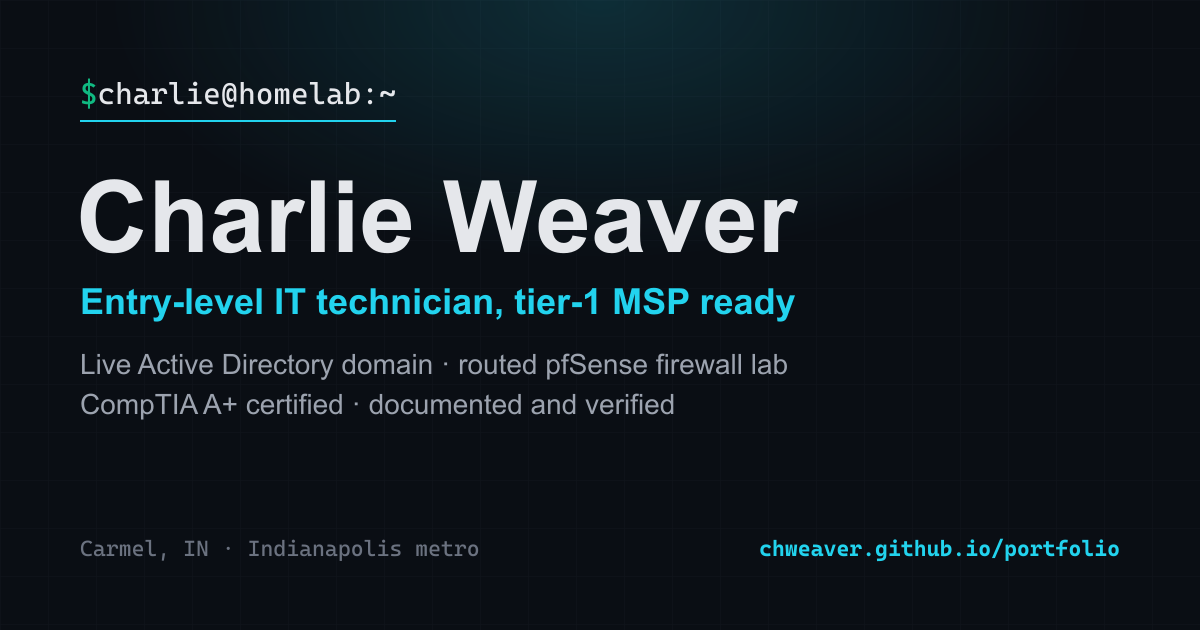
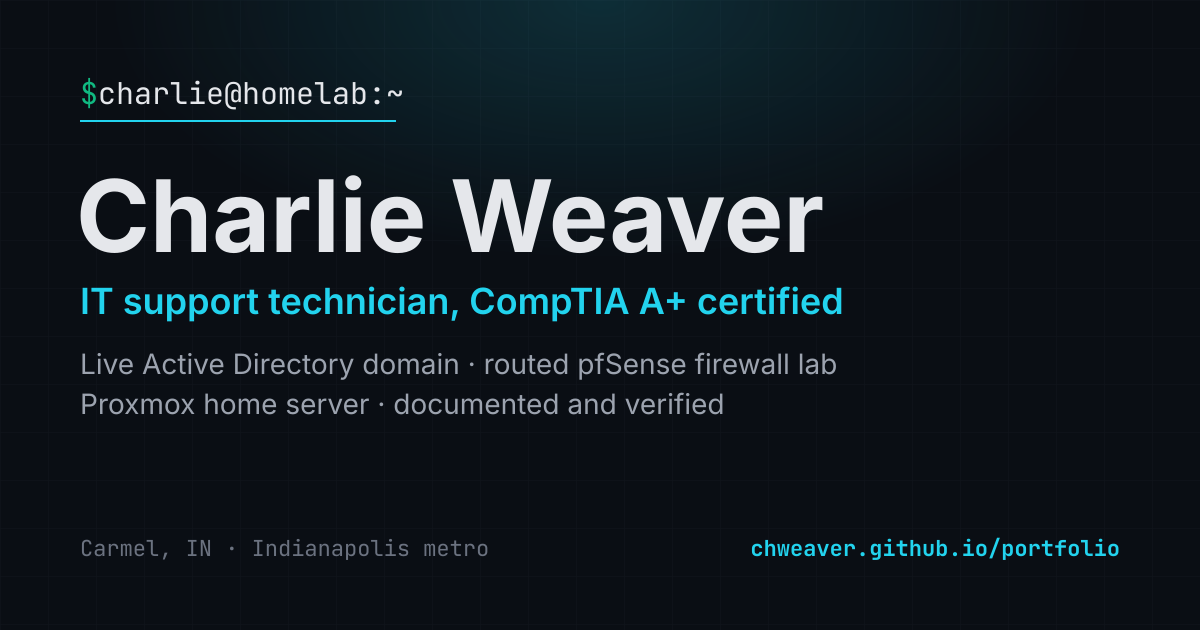
Content refresh: IT support technician pitch, Network+ roadmap, Proxmox server project
- Headline and metadata: IT support technician (was help desk and tier-1 MSP support)
- Cert roadmap: Network+ (N10-009) in progress replaces Security+; CCNA next
- Projects: AD lab through login scripts and drive maps, Linux Lab 1 complete and
  validated, new Proxmox home server card, AI workspace noted as also running there
- New "Outside the lab" strip: PC builds and family and friends support
- Skills: fourth overview card (servers and hardware); table header "On the job"
- Resume PDF regenerated: Team Member title, Whole Foods removed, Network+ line,
  Proxmox and informal support added, still one page
- OG card copy, footer, contact roles, AD snapshot fallback 6/7
- README and AGENTS.md kept in sync

diff --git a/src/data/portfolio.ts b/src/data/portfolio.ts
@@ -5,7 +5,7 @@ export const adLab = {
 } as const;
 
 // A short troubleshooting reflection shown in the AD lab section: what the
-// build-out actually taught, kept plain and specific.
+// build-out taught, kept plain and specific.
 export const adLabReflection =
   'Most of what stuck came from things breaking. A domain join that fails is usually DNS. Group Policy problems rarely announce themselves, so you live in the event logs. The worst was folder redirection silently refusing to work: I ruled out permissions, ownership, GPO scope, and networking one at a time before tracing it to a "grant exclusive rights" setting fighting my share\'s permissions.';
 
@@ -68,41 +68,41 @@ export const profile = {
   email: 'charliewgz6@gmail.com',
   linkedin: 'https://www.linkedin.com/in/charlie-weaver-it/',
   github: 'https://github.com/chweaver',
-  tagline: 'Entry-level IT technician for tier-1 MSP, help desk, and NOC roles in the Indianapolis metro, with hands-on Active Directory, pfSense, and Linux lab experience.',
+  tagline: 'Entry-level IT support technician in the Indianapolis metro, CompTIA A+ certified, with hands-on Active Directory, pfSense, Linux, and Proxmox experience from a documented home lab.',
   // Full headline kept as the canonical string (SEO/meta). The hero renders it in
   // two tiers for scannability: headlineLead large, headlineRest smaller.
-  headline: 'Help desk and tier-1 MSP support, backed by a live homelab: Active Directory, pfSense, and Linux, documented and verified.',
-  headlineLead: 'Help desk and tier-1 MSP support.',
-  headlineRest: 'Backed by a live homelab: Active Directory, pfSense, and Linux, documented and verified.',
+  headline: 'IT support technician, backed by a live homelab: Active Directory, pfSense, Linux, and a Proxmox server, documented and verified.',
+  headlineLead: 'IT support technician.',
+  headlineRest: 'Backed by a live homelab: Active Directory, pfSense, Linux, and a Proxmox server, documented and verified.',
   // Short trajectory line in the hero: makes the network-engineering goal explicit
-  // without repeating the MSP/help-desk framing already in the headline.
-  aim: 'My goal is network engineering. The routed, firewalled lab is the foundation; Security+ is in progress, then CCNA.',
+  // without repeating the support framing already in the headline.
+  aim: 'My goal is network engineering. The routed, firewalled lab is the foundation; Network+ is in progress, then CCNA.',
 } as const;
 
 // The hero renders only `honesty`; the built/planned arrays were removed with
 // the old hero cards.
 export const summary = {
   honesty:
-    'No professional MSP tenure yet. Built items are complete and verified; planned items are labeled separately.',
+    'Looking for my first IT role. Everything here is self-built: built items are complete and verified, and planned items are labeled separately.',
 };
 
 // At-a-glance hero strip: the 5-second recruiter scan. Values trace to real data
 // (profile.location, the certs list, the lab stack, current availability).
 export const heroGlance = [
   { k: 'Location', v: 'Carmel, IN · Indianapolis metro' },
-  { k: 'Certs', v: 'CompTIA A+ certified · June 2026' },
-  { k: 'Stack', v: 'AD · pfSense · Linux' },
+  { k: 'Certs', v: 'CompTIA A+ certified · Network+ in progress' },
+  { k: 'Stack', v: 'AD · pfSense · Linux · Proxmox' },
   { k: 'Status', v: 'Available now' },
 ] as const;
 
 // Compact credential path shown on the right of the hero: a curated, ordered view
 // that makes the network-engineering trajectory explicit. States stay honest and in
-// sync with `certs` below (CompTIA A+ certified, Security+ in progress, then CCNA).
+// sync with `certs` below (CompTIA A+ certified, Network+ in progress, then CCNA).
 export const heroCertRoadmap = {
   caption: 'The path toward network engineering',
   steps: [
     { name: 'CompTIA A+', code: '', state: 'done', note: 'Certified June 2026' },
-    { name: 'CompTIA Security+', code: 'SY0-701', state: 'current', note: 'In progress' },
+    { name: 'CompTIA Network+', code: 'N10-009', state: 'current', note: 'In progress' },
     { name: 'CCNA', code: '200-301', state: 'later', note: 'Routing and switching', flag: 'Network track' },
     { name: 'AZ-104', code: '', state: 'later', note: 'Cloud and M365' },
   ],
@@ -132,22 +132,22 @@ export interface Project {
 export const projects: Project[] = [
   {
     title: 'Active Directory domain',
-    outcome: 'corp.lab live: DC, OUs, AGDLP groups, first GPO',
+    outcome: 'corp.lab live: DC, OUs, AGDLP groups, GPOs, file services, login scripts',
     status: 'in-progress',
     problem: 'Stand up and run the identity layer a small shop depends on, end to end.',
-    built: 'Domain controller on Server 2022, organizational units, users, AGDLP groups, a domain-joined Windows 11 client, and a verified GPO.',
-    result: 'WS01 authenticates against corp.lab and policy applies on login. Shares and redirected home folders are in; login scripts and help-desk drills are tracked live below.',
-    stack: ['Windows Server', 'Active Directory', 'GPO', 'DNS'],
+    built: 'Domain controller on Server 2022, organizational units, users, AGDLP groups, a domain-joined Windows 11 client, Group Policy, file shares with home folders and folder redirection, a GPO login script, and drive maps targeted by security group.',
+    result: 'WS01 authenticates against corp.lab and policy applies on login: redirected folders, the login script, and the IT drive map are all verified on the client. Progress through the rest of the guide is tracked live below.',
+    stack: ['Windows Server', 'Active Directory', 'GPO', 'File shares', 'DNS'],
     repo: adLab.guideBaseUrl,
     linkLabel: 'Open the AD lab guide',
   },
   {
     title: 'Linux lab build',
-    outcome: 'Lab 1 underway: key-only SSH, locked-down sshd, ufw + fail2ban live',
+    outcome: 'Lab 1 complete: key-only SSH, locked-down sshd, ufw + fail2ban, validated',
     status: 'in-progress',
     problem: 'Bridge Linux into the Windows domain the way a real mixed network runs, then operate it: logs, metrics, patches.',
     built: 'On ubuntu-base: key-based login proven before password auth went off, sshd locked down through a 99-hardening.conf drop-in, ufw deny-by-default, and fail2ban watching the auth log.',
-    result: 'Lab 1 (SSH hardening) is in progress, tracked live below. Queued after it: Samba on the domain, BIND9, rsync backups, then rsyslog, Prometheus + Grafana on Docker, and automated patching on ops01.',
+    result: 'Lab 1 (SSH hardening) is complete and validated: key login works, password and root logins are refused, and fail2ban bans repeated failures. Queued after it: Samba on the domain, BIND9, rsync backups, then rsyslog, Prometheus + Grafana on Docker, and automated patching on ops01.',
     stack: ['Linux', 'OpenSSH', 'Samba', 'BIND9', 'rsync', 'rsyslog', 'Prometheus', 'Docker'],
     repo: linuxLab.guideBaseUrl,
     linkLabel: 'Open the Linux lab guide',
@@ -163,17 +163,43 @@ export const projects: Project[] = [
     repo: '',
   },
   {
+    title: 'Proxmox home server',
+    outcome: 'One Proxmox host running local AI, Home Assistant, DNS, and a game server',
+    status: 'done',
+    problem: 'Run real services on real hardware, not just lab VMs, and keep them running.',
+    built: 'Proxmox VE on a server I assembled from spare parts (Ryzen 9 3950X, 32 GB RAM, RTX 2080). The GPU is passed through to a container that serves local AI models with Ollama, alongside a Whisper speech-to-text container, a Home Assistant VM, a Technitium DNS container, and a Minecraft server VM.',
+    result: 'When the server stopped powering on, I traced the fault to a failed power supply, replaced it, and brought every guest back up. Backups are restore-tested: I restored a container backup to a throwaway ID, confirmed the service came up, then removed the copy.',
+    stack: ['Proxmox VE', 'LXC', 'GPU passthrough', 'Ollama', 'Whisper', 'Home Assistant', 'Technitium DNS', 'Backup and restore'],
+    repo: '',
+    wide: true,
+  },
+  {
     title: 'Self-hosted AI workspace (Odysseus)',
     outcome: 'Private AI workspace running as a multi-container Docker stack on my own GPU',
     status: 'done',
     problem: 'I wanted real reps running containerized services over time, and an AI workspace that keeps my data on my own machine.',
     built: 'Four-service Docker Compose stack (app, ChromaDB, SearXNG, ntfy) with models served by Ollama. When they offloaded to the CPU on a 12 GB card, I capped context windows, turned on flash attention and KV-cache quantization, and moved the model store to its own SSD to keep everything on the GPU. Hardened it: outbound-only firewall, non-root, model API on localhost, app behind per-user login.',
-    result: 'My daily driver, rebuildable on any machine from a script and a git bundle. A Python test battery scores each model, so model choice is measured, not guessed.',
+    result: 'My daily driver, rebuildable on any machine from a script and a git bundle, which is how it also runs on the Proxmox server. A Python test battery scores each model, so model choice is measured, not guessed.',
     stack: ['Docker', 'Docker Compose', 'Linux', 'Ollama', 'Python'],
     repo: '',
     wide: true,
   },
 ];
+
+// Support work for real people, outside the lab: shown as a strip under the
+// projects grid. Every line is something Charlie reported directly; keep the
+// wording at that level (no invented counts, clients, or outcomes).
+export const outsideLab = {
+  eyebrow: 'Outside the lab',
+  title: 'Hands-on support for real people',
+  items: [
+    { k: 'PC builds', v: 'Built or rebuilt 6 to 10 PCs for other people.' },
+    {
+      k: 'Family and friends support',
+      v: 'PC repair and upgrades, Wi-Fi and home network problems, phone and account help, printers and smart home devices.',
+    },
+  ],
+} as const;
 
 export const ipTable = [
   { asset: 'pfSense WAN', nic: 'VMnet8 (NAT)', address: '192.168.19.133 (DHCP)', mask: '/24', role: 'Uplink to host NAT pool' },
@@ -362,7 +388,7 @@ export const certCoverage: { exam: string; band: string; level: CoverageLevel; n
     exam: 'CompTIA A+ (220-1201 + 220-1202)',
     band: 'Light-to-moderate',
     level: 'light-to-moderate',
-    notes: 'Virtualization, PC hardware, and Linux install and config are direct. Mobile, printers, OS imaging, macOS, and most Windows-side OS, remote-access, and backup objectives are not in the lab.',
+    notes: 'Virtualization, PC hardware, and Linux install and config are direct. Mobile, printers, OS imaging, macOS, and most Windows-side OS and remote-access objectives are not in the lab.',
   },
   {
     exam: 'Network+ N10-009',
@@ -384,7 +410,12 @@ export const coverageMethodology =
 export const skillsOverview = [
   {
     column: 'Operating Systems',
-    items: ['Windows', 'Linux (Ubuntu, Debian, Rocky)', 'Basic shell'],
+    items: [
+      'Windows 10 and 11, Windows Server 2022',
+      'Linux (Ubuntu, Debian, Rocky)',
+      'macOS and Chrome OS (user level)',
+      'Basic shell',
+    ],
   },
   {
     column: 'Networking',
@@ -394,7 +425,16 @@ export const skillsOverview = [
     column: 'Identity and Tooling',
     items: [
       'Active Directory: domain controller, OUs, users, AGDLP groups',
+      'Group Policy, file shares, folder redirection, login scripts, drive maps',
       'Microsoft 365, ServiceNow, Jira: familiar, not yet hands-on',
+    ],
+  },
+  {
+    column: 'Servers and Hardware',
+    items: [
+      'Proxmox VE: VMs, containers, GPU passthrough, restore-tested backups',
+      'VMware Workstation Pro, Docker',
+      'PC builds, diagnosis, and part replacement',
     ],
   },
 ];
@@ -408,22 +448,22 @@ export const certs = [
     status: 'passed' as const,
     tier: 'Completed' as const,
     target: 'Certified June 2026',
-    why: 'Hardware, networking, virtualization, operating systems, security, and software troubleshooting. The MSP gatekeeper credential, both cores complete.',
+    why: 'Hardware, networking, virtualization, operating systems, security, and software troubleshooting. The baseline credential for IT support work, both cores complete.',
   },
   {
-    name: 'CompTIA Security+',
-    code: 'SY0-701',
+    name: 'CompTIA Network+',
+    code: 'N10-009',
     status: 'in-progress' as const,
     tier: 'Foundation · next' as const,
-    target: 'Security baseline',
-    why: 'Threats, identity, and risk: the security floor for client work.',
+    target: 'Networking baseline',
+    why: 'Vendor-neutral networking: addressing, routing and switching concepts, wireless, and troubleshooting. The step between A+ and CCNA.',
   },
   {
     name: 'Cisco CCNA',
     code: '200-301 v1.1',
     status: 'queued' as const,
     tier: 'Foundation · next' as const,
-    target: 'Networking foundation',
+    target: 'Routing and switching',
     why: 'Routing, switching, and the fundamentals behind every client network.',
   },
   {

diff --git a/src/components/SkillsMatrix.tsx b/src/components/SkillsMatrix.tsx
@@ -48,7 +48,7 @@ export function SkillsMatrix() {
       title="What I can work with"
       contextCard="Each lab element maps to A+, Network+, and CCNA objectives."
     >
-      <div className="grid gap-4 md:grid-cols-3">
+      <div className="grid gap-4 md:grid-cols-2 lg:grid-cols-4">
         {skillsOverview.map((col) => (
           <div key={col.column} className="card p-5">
             <div className="font-mono text-xs uppercase tracking-widest text-accent mb-3">
@@ -101,7 +101,7 @@ export function SkillsMatrix() {
                     <th className="px-4 py-3 font-normal">A+</th>
                     <th className="px-4 py-3 font-normal">Net+</th>
                     <th className="px-4 py-3 font-normal">CCNA</th>
-                    <th className="px-4 py-3 font-normal min-w-[260px]">MSP application</th>
+                    <th className="px-4 py-3 font-normal min-w-[260px]">On the job</th>
                   </tr>
                 </thead>
                 <tbody>
@@ -177,7 +177,7 @@ export function SkillsMatrix() {
           CompTIA A+: certified June 2026
         </div>
         <p className="text-sm text-ink-dim leading-relaxed">
-          Both cores passed. Security+ is in progress; CCNA is next.
+          Both cores passed. Network+ is in progress; CCNA is next.
         </p>
       </div>
     </Section>

diff --git a/src/components/Projects.tsx b/src/components/Projects.tsx
@@ -1,6 +1,6 @@
 import { Section } from './Section';
 import { ProjectCard } from './ProjectCard';
-import { projects } from '@/data/portfolio';
+import { projects, outsideLab } from '@/data/portfolio';
 
 export function Projects() {
   return (
@@ -14,6 +14,21 @@ export function Projects() {
         {projects.map((p) => (
           <ProjectCard key={p.title} {...p} />
         ))}
+      </div>
+
+      {/* Support work for real people, outside the lab. A compact strip, not a
+          project card: it has no problem / built / result shape. */}
+      <div className="card mt-[18px] p-5" style={{ borderTop: '3px solid #1e8a5a' }}>
+        <div className="section-eyebrow">{outsideLab.eyebrow}</div>
+        <h3 className="mt-1 text-lg font-semibold tracking-tight text-ink-strong">{outsideLab.title}</h3>
+        <dl className="mt-4 grid gap-4 md:grid-cols-[1fr_2fr]">
+          {outsideLab.items.map((item) => (
+            <div key={item.k}>
+              <dt className="mb-1 font-mono text-[11px] uppercase tracking-[0.1em] text-ink-faint">{item.k}</dt>
+              <dd className="text-sm leading-relaxed text-ink-dim">{item.v}</dd>
+            </div>
+          ))}
+        </dl>
       </div>
     </Section>
   );

diff --git a/src/app/layout.tsx b/src/app/layout.tsx
@@ -12,8 +12,8 @@ const bricolage = Bricolage_Grotesque({ subsets: ['latin'], variable: '--font-br
 const plexSans = IBM_Plex_Sans({ subsets: ['latin'], weight: ['400', '500', '600', '700'], variable: '--font-plex-sans', display: 'swap' });
 const plexMono = IBM_Plex_Mono({ subsets: ['latin'], weight: ['400', '500', '600'], variable: '--font-plex-mono', display: 'swap' });
 
-const siteTitle = `${profile.shortName}, MSP Tier-1 Service Desk Candidate | Active Directory + pfSense Lab | CompTIA A+ | ${profile.location.split(',')[0]} (Indianapolis metro)`;
-const siteDescription = `Entry-level MSP candidate. Live Active Directory domain, routed pfSense lab, CompTIA A+ certified, documented and verified. No professional MSP tenure yet.`;
+const siteTitle = `${profile.shortName}, IT Support Technician | Active Directory + pfSense + Proxmox Lab | CompTIA A+ | ${profile.location.split(',')[0]} (Indianapolis metro)`;
+const siteDescription = `Entry-level IT support technician. Live Active Directory domain, routed pfSense lab, Proxmox home server, CompTIA A+ certified, documented and verified.`;
 
 export const metadata: Metadata = {
   metadataBase: new URL('https://chweaver.github.io'),

diff --git a/src/components/Contact.tsx b/src/components/Contact.tsx
@@ -17,7 +17,15 @@ export function Contact() {
             <ul className="space-y-2 text-ink">
               <li className="flex gap-2">
                 <span className="font-mono text-signal-green">→</span>
-                <span>Tier-1 service desk / help desk technician</span>
+                <span>IT support / help desk technician</span>
+              </li>
+              <li className="flex gap-2">
+                <span className="font-mono text-signal-green">→</span>
+                <span>Desktop support / computer technician</span>
+              </li>
+              <li className="flex gap-2">
+                <span className="font-mono text-signal-green">→</span>
+                <span>Tier-1 MSP service desk</span>
               </li>
               <li className="flex gap-2">
                 <span className="font-mono text-signal-green">→</span>

diff --git a/src/components/ADLabProgress.tsx b/src/components/ADLabProgress.tsx
@@ -44,7 +44,7 @@ export function ADLabProgress() {
       eyebrow="Live · AD Lab"
       title="Active Directory lab, live status"
       subtitle={subtitle}
-      contextCard="The identity layer every Windows MSP client runs on. AGDLP group nesting keeps access manageable as a client grows."
+      contextCard="The identity layer most Windows workplaces run on. AGDLP group nesting keeps access manageable as an organization grows."
     >
       {!data && !failed && (
         <div className="text-ink-faint text-sm font-mono">Loading lab status...</div>

diff --git a/src/components/Hero.tsx b/src/components/Hero.tsx
@@ -5,9 +5,9 @@ import { HeroStatusPill } from './HeroStatusPill';
 import { HeroCertRoadmap } from './HeroCertRoadmap';
 
 const STATS = [
-  { label: 'Subnets routed', value: '2', sub: 'LAN + LAB200' },
-  { label: 'Firewall rules', value: '3', sub: 'pass / block / pass' },
   { label: 'Lab VMs', value: '7', sub: 'pfSense + 2 Windows + 4 Linux' },
+  { label: 'Firewall rules', value: '3', sub: 'pass / block / pass' },
+  { label: 'PCs built for others', value: '6+', sub: 'built or rebuilt (6 to 10)' },
 ];
 
 export function Hero() {

diff --git a/src/components/HeroLabStat.tsx b/src/components/HeroLabStat.tsx
@@ -6,7 +6,7 @@ import { useLabStatus } from '@/lib/useLabStatus';
 // hero status pill and the AD section, so "live" is literally true. Falls back to the
 // last-known snapshot while loading or on a failed fetch, and only shows the live
 // dot and the "updated" line when fresh feed data is in hand.
-const SNAPSHOT = { done: 5, total: 7 };
+const SNAPSHOT = { done: 6, total: 7 };
 
 function updatedAgo(iso: string): string | null {
   const then = new Date(iso).getTime();

diff --git a/src/components/HeroStatusPill.tsx b/src/components/HeroStatusPill.tsx
@@ -5,7 +5,7 @@ import { useLabStatus } from '@/lib/useLabStatus';
 // Live AD lab status, relocated from the old sticky strip into the hero pill
 // (Daylight Ops puts the live proof up top, not in a separate bar). Reads the
 // same feed; falls back to the last-known snapshot while loading or on failure.
-const SNAPSHOT = { done: 5, total: 7 };
+const SNAPSHOT = { done: 6, total: 7 };
 
 export function HeroStatusPill() {
   const { data, failed } = useLabStatus();

diff --git a/src/components/HeroCertRoadmap.tsx b/src/components/HeroCertRoadmap.tsx
@@ -1,6 +1,6 @@
 import { heroCertRoadmap } from '@/data/portfolio';
 
-// Dot treatment per state. `current` (Security+) pulses for the cert in
+// Dot treatment per state. `current` (Network+) pulses for the cert in
 // progress; `next` is a hollow accent ring; `done` is filled green.
 const DOT: Record<string, string> = {
   done: 'bg-signal-green border-signal-green',

diff --git a/src/components/Footer.tsx b/src/components/Footer.tsx
@@ -16,7 +16,7 @@ export function Footer() {
         </div>
       </div>
       <div className="container-narrow mt-4 font-mono text-xs text-ink-faint">
-        Available for tier-1 MSP, help desk, and NOC roles · Indianapolis metro
+        Available for IT support, help desk, and desktop support roles · Indianapolis metro
       </div>
     </footer>
   );

diff --git a/AGENTS.md b/AGENTS.md
@@ -13,14 +13,16 @@ parentheses, or middots.
 ## 1. Project overview
 
 A statically exported personal career portfolio for Charles "Charlie" Weaver, aimed at
-landing an entry-level role at a networking-focused MSP (managed service provider):
-tier-1 service desk, help desk, NOC, or junior sysadmin.
+landing an entry-level IT support role: IT support or help desk technician, desktop
+support, tier-1 MSP service desk, NOC, or junior sysadmin. The headline pitch is
+"IT support technician" (broad on purpose: schools, companies, and MSPs).
 
-The audience is a busy MSP hiring manager or technical recruiter who decides in roughly
+The audience is a busy hiring manager or technical recruiter who decides in roughly
 20 seconds. The site proves, with evidence, that Charlie already works like a methodical
 junior tech: he builds, documents, verifies, and is honest about scope. The signature
-proof is a live, routed, firewalled home lab and a live Active Directory domain, with
-CompTIA A+ certified (both cores, June 2026).
+proof is a live, routed, firewalled home lab, a live Active Directory domain, and a
+Proxmox home server, with CompTIA A+ certified (both cores, June 2026) and Network+ in
+progress.
 
 - Live URL: https://chweaver.github.io/portfolio/
 - Repo: https://github.com/chweaver/portfolio (public)
@@ -293,7 +295,9 @@ DOM order (component, anchor id, eyebrow):
    (`profile.headlineLead` + `profile.headlineRest`), at-a-glance strip (`heroGlance`),
    CTA row (Resume download + Email), stat grid (`HeroLabStat` + static stats), the
    honesty line (`summary.honesty`), and the cert roadmap card (`HeroCertRoadmap`).
-2. `Projects` (`#projects`, eyebrow "Projects"): outcome-first grid of `ProjectCard`.
+2. `Projects` (`#projects`, eyebrow "Projects"): outcome-first grid of `ProjectCard`,
+   then the "Outside the lab" strip (`outsideLab`: PC builds and family and friends
+   support, stated at the level Charlie reported it).
 3. `ADLabProgress` (`#ad-lab`, eyebrow "Live · AD Lab"): compact 2-second read of the
    live AD feed (progress line, current phase, done summary); the full per-phase list
    and the reflection sit behind show/hide disclosures.
@@ -377,7 +381,7 @@ component needs hooks, state, or fetch.
 
 `src/data/portfolio.ts` is the single content spine (about 440 lines). Almost all copy
 and data live there as named exports: `adLab`, `linuxLab`, `topologySubnets`,
-`topologyNodes`, `profile`, `summary`, `heroGlance`, `projects`, `ipTable`,
+`topologyNodes`, `profile`, `summary`, `heroGlance`, `projects`, `outsideLab`, `ipTable`,
 `firewallRules`, `implicitBehavior`, `verificationLog`, `pfsenseLog`, `skillsMatrix`,
 `certCoverage`, `coverageMethodology`, `skillsOverview`, `certTierOrder`, `certs`. Edit
 the data, not the components, for copy and list changes.
@@ -387,7 +391,8 @@ the data, not the components, for copy and list changes.
 
 **Add a project card:** add an entry to the `projects` array (it feeds the `Projects`
 section via `ProjectCard`). Keep `status` honest (`done` / `in-progress` / `planned`).
-The grid is balanced for three; do not pad to four with filler.
+The grid is three across; a card with much more text sets `wide` to span the full row
+(the Proxmox server and the AI workspace do). Do not pad the grid with filler.
 
 **Add or move a topology host:** edit `topologyNodes` (and `topologySubnets` if adding a
 subnet) in `portfolio.ts`. Wire `labs` ids only if a `linux-lab-guide` lab
